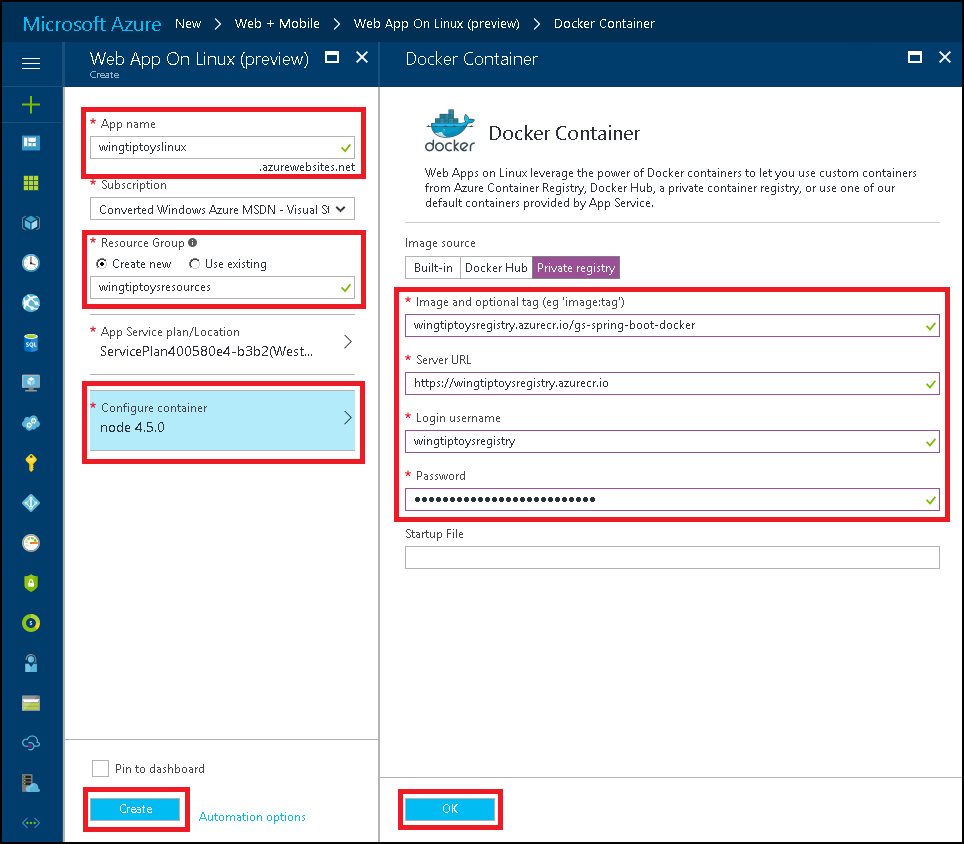
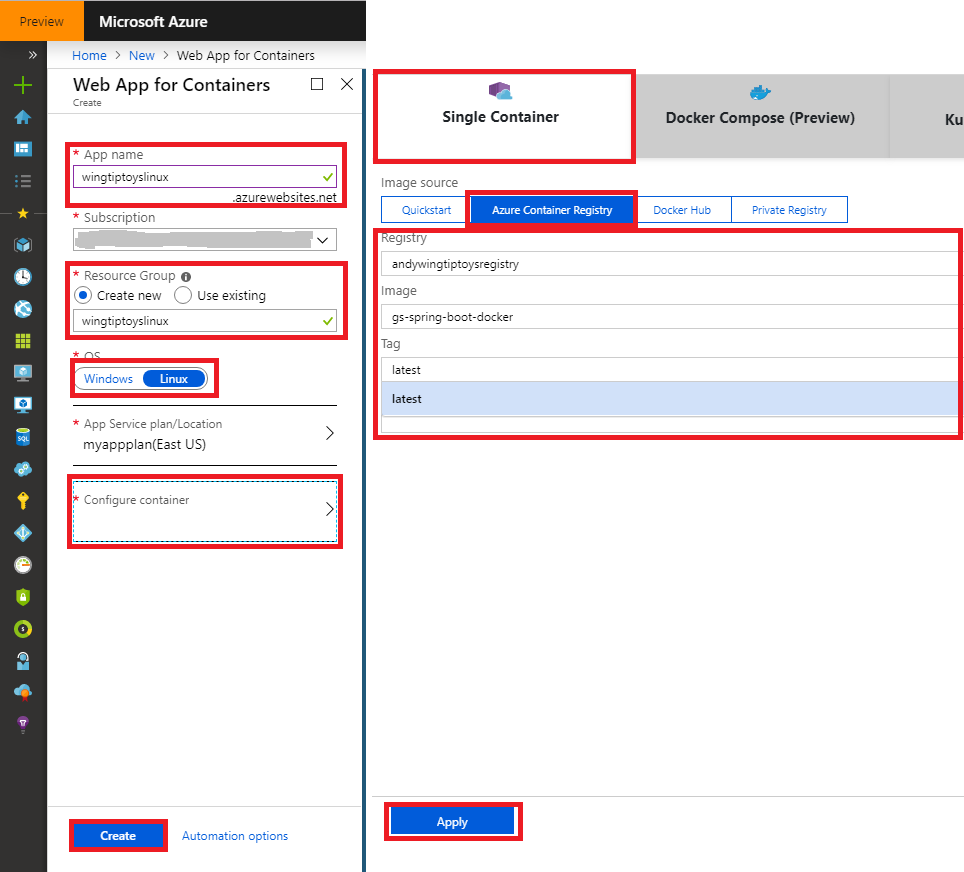
Update the old way of create Web App on Linux to Web app for Container due to product rename and use jib to replace the old way of pushing docker images.

diff --git a/docs-ref-conceptual/spring-framework/deploy-spring-boot-java-app-on-linux.md b/docs-ref-conceptual/spring-framework/deploy-spring-boot-java-app-on-linux.md
@@ -113,104 +113,86 @@ The following steps walk you through using the Azure portal to create an Azure C
 
 ## Configure Maven to use your Azure Container Registry access keys
 
-1. Navigate to the configuration directory for your Maven installation and open the *settings.xml* file with a text editor.
-
-1. Add your Azure Container Registry access settings from the previous section of this tutorial to the `<servers>` collection in the *settings.xml* file; for example:
-
-   ```xml
-   <servers>
-      <server>
-         <id>wingtiptoysregistry</id>
-         <username>wingtiptoysregistry</username>
-         <password>AbCdEfGhIjKlMnOpQrStUvWxYz</password>
-      </server>
-   </servers>
-   ```
-
 1. Navigate to the completed project directory for your Spring Boot application, (for example: "*C:\SpringBoot\gs-spring-boot-docker\complete*" or "*/users/robert/SpringBoot/gs-spring-boot-docker/complete*"), and open the *pom.xml* file with a text editor.
 
-1. Update the `<properties>` collection in the *pom.xml* file with the login server value for your Azure Container Registry from the previous section of this tutorial; for example:
+1. Update the `<properties>` collection in the *pom.xml* file with the latest version of [jib-maven-plugin](https://github.com/GoogleContainerTools/jib/tree/master/jib-maven-plugin) and login server value and access settings for your Azure Container Registry from the previous section of this tutorial. For example:
 
    ```xml
    <properties>
+      <jib-maven-plugin.version>1.2.0</jib-maven-plugin.version>
       <docker.image.prefix>wingtiptoysregistry.azurecr.io</docker.image.prefix>
       <java.version>1.8</java.version>
+      <username>wingtiptoysregistry</username>
+      <password>AbCdEfGhIjKlMnOpQrStUvWxYz</password>
    </properties>
    ```
 
-1. Update the `<plugins>` collection in the *pom.xml* file so that the `<plugin>` contains the login server address and registry name for your Azure Container Registry from the previous section of this tutorial. For example:
+1. Add [jib-maven-plugin](https://github.com/GoogleContainerTools/jib/tree/master/jib-maven-plugin) to the `<plugins>` collection in the *pom.xml* file, specify the base image at `<from>/<image>` and  final image name `<to>/<image>`, specify the username and password from previous section at `<to>/<auth>`. For example:
 
    ```xml
    <plugin>
-      <groupId>com.spotify</groupId>
-      <artifactId>docker-maven-plugin</artifactId>
-      <version>0.4.11</version>
-      <configuration>
-         <imageName>${docker.image.prefix}/${project.artifactId}</imageName>
-         <dockerDirectory>src/main/docker</dockerDirectory>
-         <resources>
-            <resource>
-               <targetPath>/</targetPath>
-               <directory>${project.build.directory}</directory>
-               <include>${project.build.finalName}.jar</include>
-            </resource>
-         </resources>
-         <serverId>wingtiptoysregistry</serverId>
-         <registryUrl>https://wingtiptoysregistry.azurecr.io</registryUrl>
-      </configuration>
+     <artifactId>jib-maven-plugin</artifactId>
+     <groupId>com.google.cloud.tools</groupId>
+     <version>${jib-maven-plugin.version}</version>
+     <configuration>
+        <from>
+            <image>openjdk:8-jre-alpine</image>
+        </from>
+        <to>
+            <image>${docker.image.prefix}/${project.artifactId}</image>
+            <auth>
+               <username>${username}</username>
+               <password>${password}</password>
+            </auth>
+        </to>
+     </configuration>
    </plugin>
    ```
 
 1. Navigate to the completed project directory for your Spring Boot application and run the following command to rebuild the application and push the container to your Azure Container Registry:
 
-   ```
-   mvn package docker:build -DpushImage 
+   ```cmd
+   mvn compile jib:build
    ```
 
 > [!NOTE]
 >
-> When you are pushing your Docker container to Azure, you may receive an error message that is similar to one of the following even though your Docker container was created successfully:
->
-> * `[ERROR] Failed to execute goal com.spotify:docker-maven-plugin:0.4.11:build (default-cli) on project gs-spring-boot-docker: Exception caught: no basic auth credentials`
->
-> * `[ERROR] Failed to execute goal com.spotify:docker-maven-plugin:0.4.11:build (default-cli) on project gs-spring-boot-docker: Exception caught: Incomplete Docker registry authorization credentials. Please provide all of username, password, and email or none.`
->
-> If this happens, you may need to sign in to your Azure account from the Docker command line; for example:
->
-> `docker login -u wingtiptoysregistry -p "AbCdEfGhIjKlMnOpQrStUvWxYz" wingtiptoysregistry.azurecr.io`
->
-> You can then push your container from the command line; for example:
->
-> `docker push wingtiptoysregistry.azurecr.io/gs-spring-boot-docker`
+> When you are using Jib to push your image to the Azure Container Registry, the image will not honor *Dockerfile*, see [this](https://cloudplatform.googleblog.com/2018/07/introducing-jib-build-java-docker-images-better.html) document for details.
 >
 
 ## Create a web app on Linux on Azure App Service using your container image
 
 1. Browse to the [Azure portal] and sign in.
 
-2. Click the menu icon for **+ New**, then click **Web + Mobile**, and then click **Web App on Linux**.
+2. Click the menu icon for **+ Create a resource**, then click **Web**, and then click **Web App for Containers**.
    
    ![Create a new web app in the Azure portal][LX01]
 
 3. When the **Web App on Linux** page is displayed, enter the following information:
 
-   a. Enter a unique name for the **App name**; for example: "*wingtiptoyslinux*."
+   a. Enter a unique name for the **App name**; for example: "*wingtiptoyslinux*"
 
    b. Choose your **Subscription** from the drop-down list.
 
    c. Choose an existing **Resource Group**, or specify a name to create a new resource group.
 
-   d. Click **Configure container** and enter the following information:
+   d. Choose *Linux* as the **OS**.
 
-   * Choose **Private registry**.
+   e. Click **App Service plan/Location** and choose an existing app service plan, or click **Create new** to create a new app service plan.
 
-   * **Image and optional tag**: Specify your container name from earlier; for example: "*wingtiptoysregistry.azurecr.io/gs-spring-boot-docker:latest*"
+   f. Click **Configure container** and enter the following information:
 
-   * **Server URL**: Specify your registry URL from earlier; for example: "*<https://wingtiptoysregistry.azurecr.io>*"
+   * Choose **Single Container** and  **Azure Container Registry**.
 
-   * **Login username** and **Password**: Specify your login credentials from your **Access Keys** that you used in previous steps.
+   * **Registry**: Choose your container name created earlier; for example: "*wingtiptoysregistry*"
+
+   * **Image**: Choose the image name; for example: "*gs-spring-boot-docker*"
    
-   e. Once you have entered all of the above information, click **OK**.
+   * **Tag**: Choose the tag for the image; for example: "*latest*"
+   
+   * **Startup File**: Keep it blank since the image already has the start up command
+   
+   e. Once you have entered all of the above information, click **Apply**.
 
    ![Configure web app settings][LX02]
 
@@ -222,13 +204,11 @@ The following steps walk you through using the Azure portal to create an Azure C
 >
 > 1. Browse to the [Azure portal] and sign in.
 > 
-> 2. Click the icon for **App Services**. (See item #1 in the image below.)
+> 2. Click the icon for **App Services**, and select your web app from the list.
 >
-> 3. Select your web app from the list. (Item #2 in the image below.)
+> 4. Click **Configuration**. (Item #1 in the image below.)
 >
-> 4. Click **Application Settings**. (Item #3 in the image below.)
->
-> 5. In the **App settings** section, add a new environment variable named **PORT** and enter your custom port number for the value. (Item #4 in the image below.)
+> 5. In the **Application settings** section, add a new setting named **PORT** and enter your custom port number for the value. (Item #2, #3, #4 in the image below.)
 >
 > 6. Click **Save**. (Item #5 in the image below.)
 >
